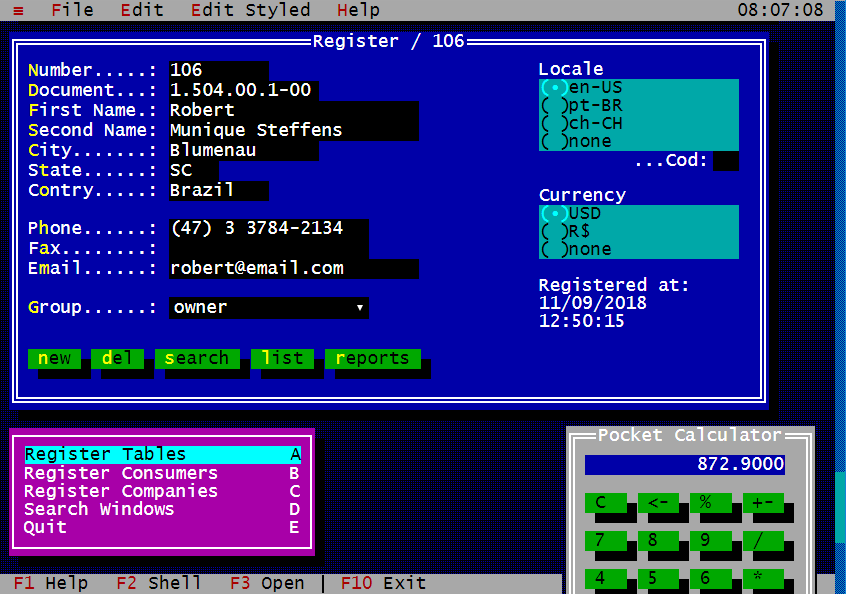
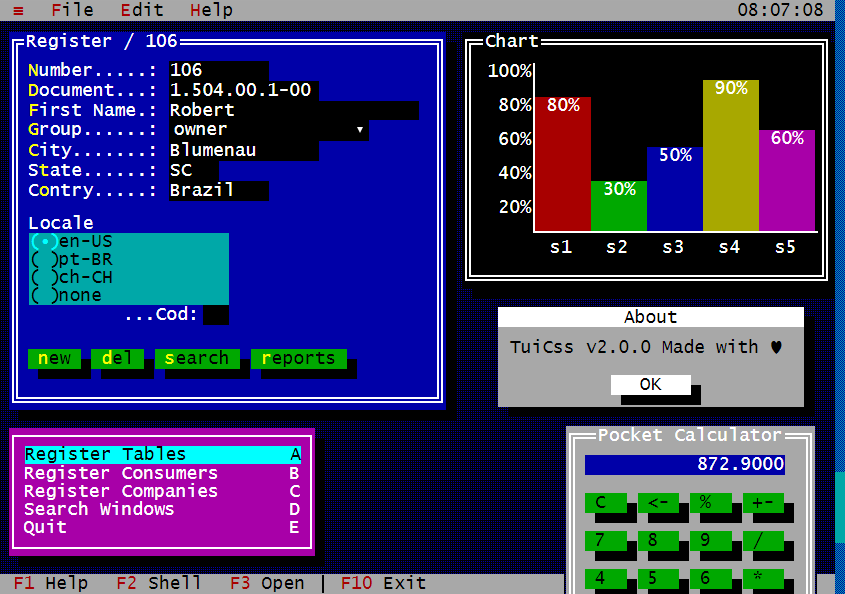
Demo image updated

diff --git a/examples/window-and-panels.html b/examples/window-and-panels.html
@@ -156,8 +156,7 @@ int main()
                 About
             </div>
             <div class="tui-panel-content">
-                Lorem ipsum dolor sit amet, consectetur adipiscing elit.<br>
-                Curabitur id vestibulum libero, id fermentum lorem.
+                TuiCss v2.0.0 Made with ♥
                 <br><br>
                 <div class="center">
                     <button class="tui-button white-255" style="width: 80px">OK</button>

diff --git a/examples/chart.html b/examples/chart.html
@@ -13,7 +13,7 @@
 
     <div class="tui-window black-168 left-align">
         <fieldset class="tui-fieldset">
-            <legend class="">Vertical Bar Chart</legend>
+            <legend class="">Chart</legend>
             <div class="tui-chart-vertical" style="width: 500px; height: 200px;">
                 <div class="tui-chart-display">
                     <div class="tui-chart-value red-168 animated" style="height: 80%;">80%</div>
